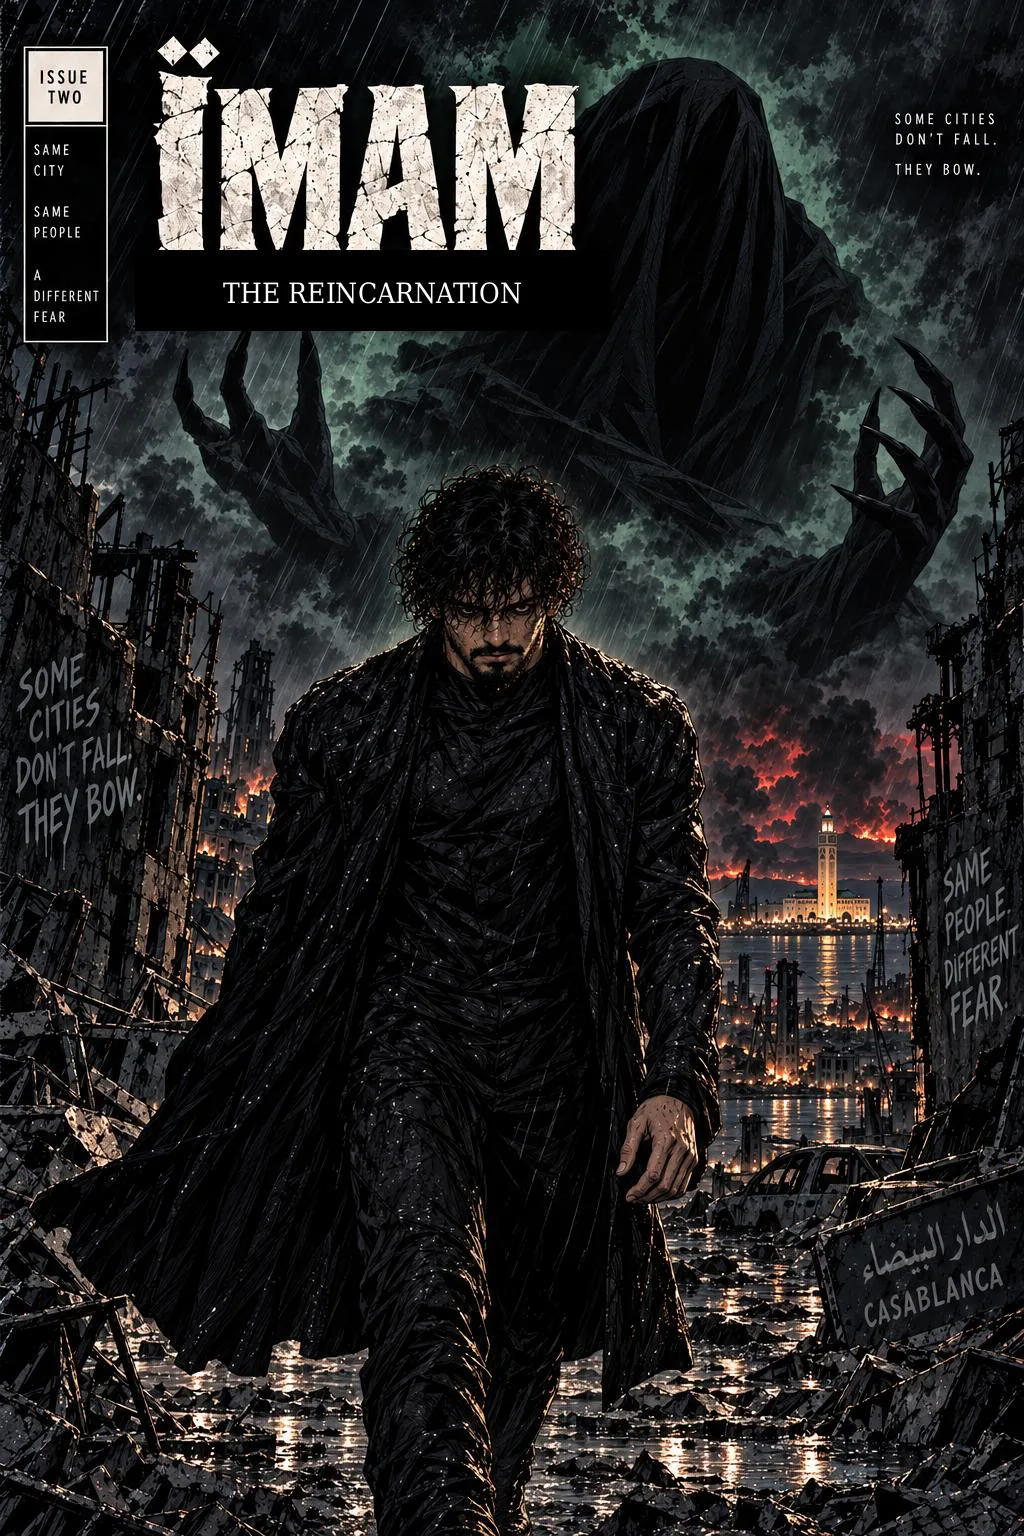
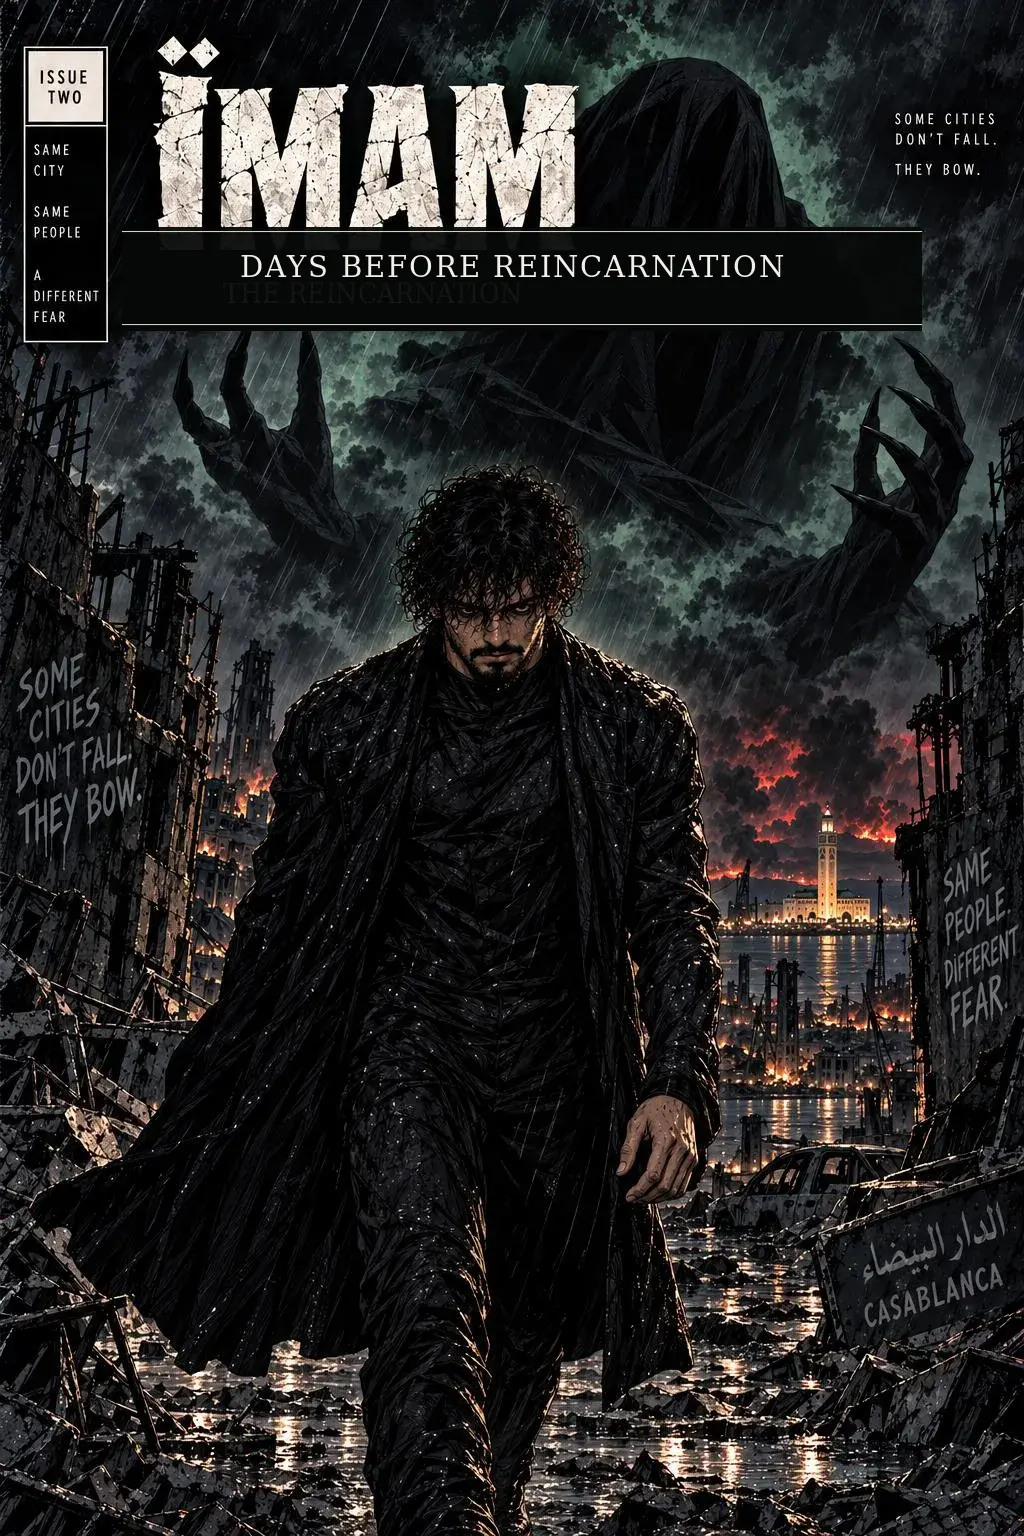
Fix chapter covers and page-01 mappings

Changed region(s): [[0.1562, 0.125, 0.9062, 0.2188]]

diff --git a/index.html b/index.html
@@ -106,9 +106,9 @@ body.side-selected[data-side="imam"]:after{background-image:radial-gradient(circ
 <section class="hero"><div class="hero-inner"><div class="eyebrow">A dark superhero saga</div><h1>ÏMAM<span>THE REINCARNATION</span></h1><p>MBIW gave everything to protect his city. When the city turned on him, something colder woke inside. Read the story from the beginning.</p><div class="hero-actions"><a class="button primary" href="issue1/" data-reader="issue1">Start Chapter I</a><a class="button" href="issue2/" data-reader="issue2">Read Chapter II</a><a class="button" href="issue3/" data-reader="issue3">Read Chapter III</a></div></div></section>
 <section class="section" id="issues"><div class="section-head"><div><div class="eyebrow">Read online</div><h2>The Chapters</h2></div><p>Built for phones and desktops. Scroll through each full comic page in order, or download the PDF editions.</p></div>
 <div class="issue-grid">
-<article class="issue-card"><a class="cover-wrap" href="issue1/" data-reader="issue1"><img src="assets/issue1/cover-final.webp?v=30" alt="ÏMAM Chapter I cover" loading="lazy"></a><div class="issue-meta"><div class="issue-no">Chapter I · 24 pages</div><h3>DAYS BEFORE REINCARNATION</h3><p>The fall of MBIW and the awakening of ÏMAM.</p><div class="issue-actions"><a class="button primary" href="issue1/" data-reader="issue1">Read online</a><a class="button" href="assets/issue1/IMAM_Issue_One.pdf" download>PDF</a></div></div></article>
-<article class="issue-card"><a class="cover-wrap" href="issue2/" data-reader="issue2"><img src="assets/issue2/cover-final.webp?v=30" alt="ÏMAM Chapter II cover" loading="lazy"></a><div class="issue-meta"><div class="issue-no">Chapter II · 36 pages</div><h3>DAYS BEFORE REINCARNATION</h3><p>ÏMAM rises from Casablanca and the world begins to learn his name.</p><div class="issue-actions"><a class="button primary" href="issue2/" data-reader="issue2">Read online</a><a class="button" href="assets/issue2/IMAM_Issue_Two.pdf" download>PDF</a></div></div></article>
-<article class="issue-card"><a class="cover-wrap" href="issue3/" data-reader="issue3"><img src="assets/issue3/cover-final.webp?v=30" alt="ÏMAM Chapter III cover" loading="lazy"></a><div class="issue-meta"><div class="issue-no">Chapter III · 60 pages</div><h3>DAYS BEFORE REINCARNATION</h3><p>With the world turning against him, ÏMAM must decide what kind of power he will become—and whether peace can survive what comes next.</p><div class="issue-actions"><a class="button primary" href="issue3/" data-reader="issue3">Read online</a><a class="button" href="assets/issue3/IMAM_Beyond_Reincarnation_Issue_3.pdf" download>PDF</a></div></div></article>
+<article class="issue-card"><a class="cover-wrap" href="issue1/" data-reader="issue1"><img src="assets/issue1/page-01.webp?v=31" alt="ÏMAM Chapter I cover" loading="lazy"></a><div class="issue-meta"><div class="issue-no">Chapter I · 24 pages</div><h3>DAYS BEFORE REINCARNATION</h3><p>The fall of MBIW and the awakening of ÏMAM.</p><div class="issue-actions"><a class="button primary" href="issue1/" data-reader="issue1">Read online</a><a class="button" href="assets/issue1/IMAM_Issue_One.pdf" download>PDF</a></div></div></article>
+<article class="issue-card"><a class="cover-wrap" href="issue2/" data-reader="issue2"><img src="assets/issue2/page-01.webp?v=31" alt="ÏMAM Chapter II cover" loading="lazy"></a><div class="issue-meta"><div class="issue-no">Chapter II · 36 pages</div><h3>DAYS BEFORE REINCARNATION</h3><p>ÏMAM rises from Casablanca and the world begins to learn his name.</p><div class="issue-actions"><a class="button primary" href="issue2/" data-reader="issue2">Read online</a><a class="button" href="assets/issue2/IMAM_Issue_Two.pdf" download>PDF</a></div></div></article>
+<article class="issue-card"><a class="cover-wrap" href="issue3/" data-reader="issue3"><img src="assets/issue3/page-01.webp?v=31" alt="ÏMAM Chapter III cover" loading="lazy"></a><div class="issue-meta"><div class="issue-no">Chapter III · 60 pages</div><h3>DAYS BEFORE REINCARNATION</h3><p>With the world turning against him, ÏMAM must decide what kind of power he will become—and whether peace can survive what comes next.</p><div class="issue-actions"><a class="button primary" href="issue3/" data-reader="issue3">Read online</a><a class="button" href="assets/issue3/IMAM_Beyond_Reincarnation_Issue_3.pdf" download>PDF</a></div></div></article>
 </div></section>
 <section class="quote"><blockquote>“You think you are at peace because I exist? You are at peace because I allow it.”</blockquote><cite>ÏMAM</cite></section>
 </main><footer class="footer">ÏMAM · Independent comic project</footer>
